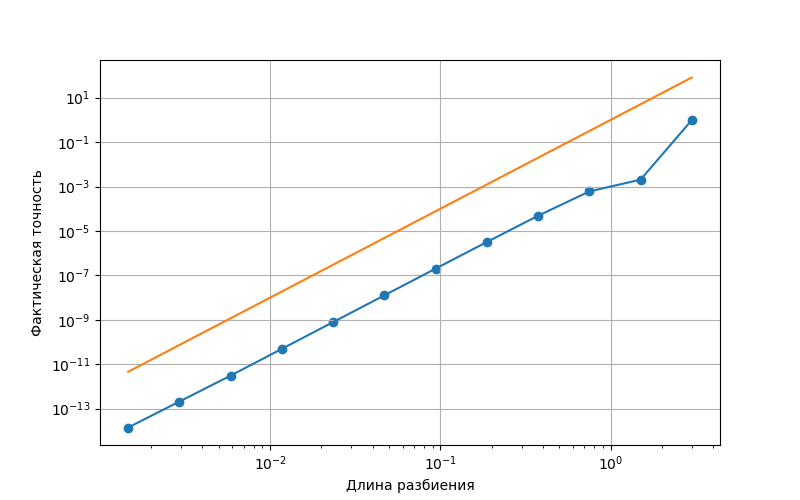
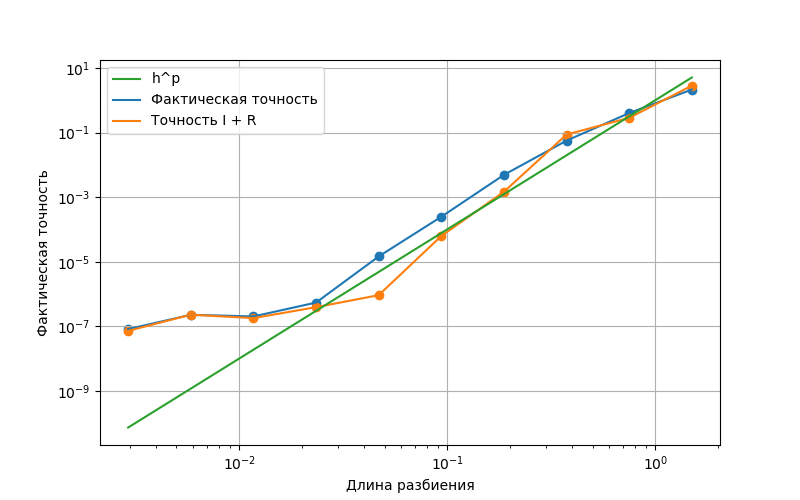
not working osci

diff --git a/lab4/main.cpp b/lab4/main.cpp
@@ -2,32 +2,42 @@
 #include <fstream>
 #include <cmath>
 #include <map>
+#include <iomanip>
 
 using namespace std;
 
 #define PATH "data/"
 
-#define GOAL -25.936680479391057
+// #define GOAL -25.936680479391057
+#define GOAL -6.88853930204
 
 /* global vars. Only for tests */
 double h_1q = 0;
 
 int n_3q_1 = 0;
+
+double runge_corretive = 0;
 /*understand and forgive*/
 
 
 using namespace std;
 
-double fun(double x){
+
+double fun1(double x){
     return (powl(x,5) - 4.2 * powl(x,3) + 3.5 * powl(x,2) - 7.0 * x - 7.4) * cos(0.4 * x);
 }
+
+double fun2(double x){
+    return fun1(x) * sin(powf((1.68- x - 1),4));
+}
+
 
 double getx(double t, double a, double b){
     return ((a + b)/2.0 + (b-a)/2.0 * t);
 }
 
 
-double Chebyshev(double a, double b){
+double Chebyshev(double (* fun)(double),double a, double b){
     double x1 = getx(-1.0/sqrt(2),a,b);
     double x2 = getx(0,a,b);
     double x3 = getx(1.0/sqrt(2),a,b);
@@ -35,10 +45,11 @@ double Chebyshev(double a, double b){
 }
 
 bool RungeRule(double Sn, double S2n ,double eps){
-    return (fabs(S2n - Sn) / 8) < eps;
+    runge_corretive = ((-Sn + S2n) / 15.0);
+    return (fabs(S2n - Sn) / 15.0) < eps;
 }
 
-double Integrate_by_rang(double a, double b, int rang){
+double Integrate_by_rang(double (* fun)(double), double a, double b, int rang){
     double res = 0;
     double step = (b - a)/(double)rang;
     double current_a = a;
@@ -46,7 +57,7 @@ double Integrate_by_rang(double a, double b, int rang){
     for(int n = 0; n <  rang; n++){
         current_a =  a + step * n;
         current_b =  a + step + n*step;
-        res += Chebyshev(current_a,current_b);
+        res += Chebyshev(fun,current_a,current_b);
     }
 
     n_3q_1 = log2(rang);
@@ -54,18 +65,18 @@ double Integrate_by_rang(double a, double b, int rang){
     return res;
 }
 
-double Integrate(double a, double b, double eps){
+double Integrate(double (* fun)(double), double a, double b, double eps){
     int n1 = 1;
     int n2 = 2;
 
-    double result = Integrate_by_rang(a,b,n2);
-    double check = Integrate_by_rang(a,b,n1);
+    double result = Integrate_by_rang(fun, a,b,n2);
+    double check = Integrate_by_rang(fun, a,b,n1);
     while (!RungeRule(check,result,eps))
     {
         n1 *= 2;
         n2 *= 2;
         check = result;
-        result = Integrate_by_rang(a,b,n2);
+        result = Integrate_by_rang(fun,a,b,n2);
     }
 
 
@@ -73,46 +84,68 @@ double Integrate(double a, double b, double eps){
     
 }
 
-void Test1(){
+void Test1(double (* f)(double)){
     double a = -0.8;
     double b = 2.2;
 
     ofstream out;
+    ofstream out2;
     out.open(PATH"1q.txt");
 
-    for(int i = 1; i <= 2048; i *= 2){
+    out2.open(PATH"r1q.txt");
 
-        double res = Integrate_by_rang(a,b,i); 
+    double old = Integrate_by_rang(f,a,b,1);
+
+    for(int i = 2; i <= 1024 ; i *= 2){
+
+        double res = Integrate_by_rang(f,a,b,i); 
         double err = fabs(res - GOAL);
 
+        RungeRule(old,res,0);
+        old = res;
+
+        double r_err = fabs((res + runge_corretive ) - GOAL);
+
         out << h_1q << ' ' << err << endl;
+        out2 << h_1q << ' ' << r_err << endl;
     }
 
-
+    out2.close();
     out.close();
 }
 
-void Test2(){
+void Test2(double (* f)(double)){
 
     double a = -0.8;
     double b = 2.2;
 
     ofstream out;
+    ofstream out2;
+
+    out2.open(PATH"r2q.txt");
+
     out.open(PATH"2q.txt");
 
-    for(int i = 1; i <= 13; i++){
+    for(int i = 1; i < 11; i++){
         double e = powl(10, -i);
-        double res = Integrate(a,b,e); 
+        double res = Integrate(f,a,b,e); 
+
+        double r_err = fabs((res + runge_corretive ) - GOAL);
+
         double err = fabs(res - GOAL );
         out << e << ' ' << err << endl;
+        out2 << e << ' ' << r_err << endl;
+
+      
     }
 
 
     out.close();
+    out2.close();
 }
 
 
-void Test3_1(){
+void Test3_1(double (* f)(double)){
 
     double a = -0.8;
     double b = 2.2;
@@ -120,18 +153,20 @@ void Test3_1(){
     ofstream out;
     out.open(PATH"3_1q.txt");
 
-    for(int i = 1; i <= 13; i++){
+    for(int i = 2; i <= 10; i++){
         double e = powl(10, -i);
-        double res = Integrate(a,b,e); 
+        double res = Integrate(f,a,b,e); 
         double err = fabs(res - GOAL );
         out << e << ' ' << n_3q_1 << endl;
+
+        cout << i << endl;
     }
 
 
     out.close();
 }
 
-void Test3_2(){
+void Test3_2(double (* f)(double)){
 
     double a = -0.8;
     double b = 2.2;
@@ -142,12 +177,12 @@ void Test3_2(){
     double runge = 0;
     double s1 = 0;
 
-    for(int i = 1; i <= 2048; i *= 2){
+    for(int i = 2; i <= 1024 * 4; i *= 2){
 
-        double res = Integrate_by_rang(a,b,i); 
+        double res = Integrate_by_rang(f,a,b,i); 
 
         if(s1 != 0){
-            runge = fabs(res - s1) / 8.0;
+            runge = fabs(res - s1) / 15.0;
             out << log2(i) << ' ' << runge << endl;
         }
 
@@ -162,9 +197,12 @@ void Test3_2(){
 
 int main(){
 
-    // Test1();
-    // Test2();
-    Test3_2();
+    // cout << fun2(-0.325);
+
+    // Test1(fun2);
+    // Test2(fun2);
+    Test3_2(fun2);
+    Test3_1(fun2);
     // double res = Integrate_by_rang(-0.8,2.2,1);
     return 0;
 }

diff --git a/lab4/graph1.py b/lab4/graph1.py
@@ -9,9 +9,17 @@ with open('data/1q.txt') as f:
     lines = f.readlines()
     x = [float(line.split()[0]) for line in lines]
     y = [float(line.split()[1]) for line in lines]
+plt.scatter(x,y)
+err, = plt.plot(x,y)
+
+
+with open('data/r1q.txt') as f:
+    lines = f.readlines()
+    x = [float(line.split()[0]) for line in lines]
+    y = [float(line.split()[1]) for line in lines]
 
 plt.scatter(x,y)
-amm, = plt.plot(x,y)
+r_err, = plt.plot(x,y)
 
 line, = plt.plot(x,[k**4 for k in x])
 
@@ -23,7 +31,8 @@ plt.semilogy()
 plt.xlabel('Длина разбиения')
 plt.ylabel('Фактическая точность')
 
+plt.legend([line,err,r_err],["h^p","Фактическая точность","Точность I + R"])
 
-#plt.show()
+# plt.show()
 
 plt.savefig('plots/1.png')

diff --git a/lab4/graph3.py b/lab4/graph3.py
@@ -1,0 +1,37 @@
+import math
+import numpy as np
+import matplotlib.pyplot as plt
+
+plt.figure(figsize=(8,5))
+
+
+with open('data/3_1q.txt') as f:
+    lines = f.readlines()
+    x = [float(line.split()[0]) for line in lines]
+    y1 = [int(line.split()[1]) for line in lines]
+
+plt.scatter(x,y1)
+err_set, = plt.plot(x,y1)
+
+with open('data/3_2q.txt') as f:
+    lines = f.readlines()
+    x = [int(line.split()[0]) for line in lines]
+    y2 = [float(line.split()[1]) for line in lines]
+
+
+plt.scatter(y2,x)
+err_rung, = plt.plot(y2,x)
+
+plt.grid()
+
+plt.semilogx()
+
+
+plt.xlabel('Точность')
+plt.ylabel('Число разбиений')
+
+plt.legend([err_set,err_rung],["Заданная","По Рунге"])
+
+#plt.show()
+
+plt.savefig('plots/3.png')

diff --git a/lab4/graph2.py b/lab4/graph2.py
@@ -13,6 +13,16 @@ with open('data/2q.txt') as f:
 plt.scatter(x,y)
 err, = plt.plot(x,y)
 
+
+with open('data/r2q.txt') as f:
+    lines = f.readlines()
+    x = [float(line.split()[0]) for line in lines]
+    y = [float(line.split()[1]) for line in lines]
+
+plt.scatter(x,y)
+r_err, = plt.plot(x,y)
+
+
 plt.grid()
 
 plt.semilogx()
@@ -23,7 +33,7 @@ bis, = plt.plot([0,.10],[0,.10])
 plt.xlabel('Заданная точность')
 plt.ylabel('Фактическая точность')
 
-plt.legend([err,bis],['Фактическая точность','Биссектриса'])
+plt.legend([bis,err,r_err],['Биссектриса','Фактическая точность','Точность I+R'])
 
 #plt.show()
 
